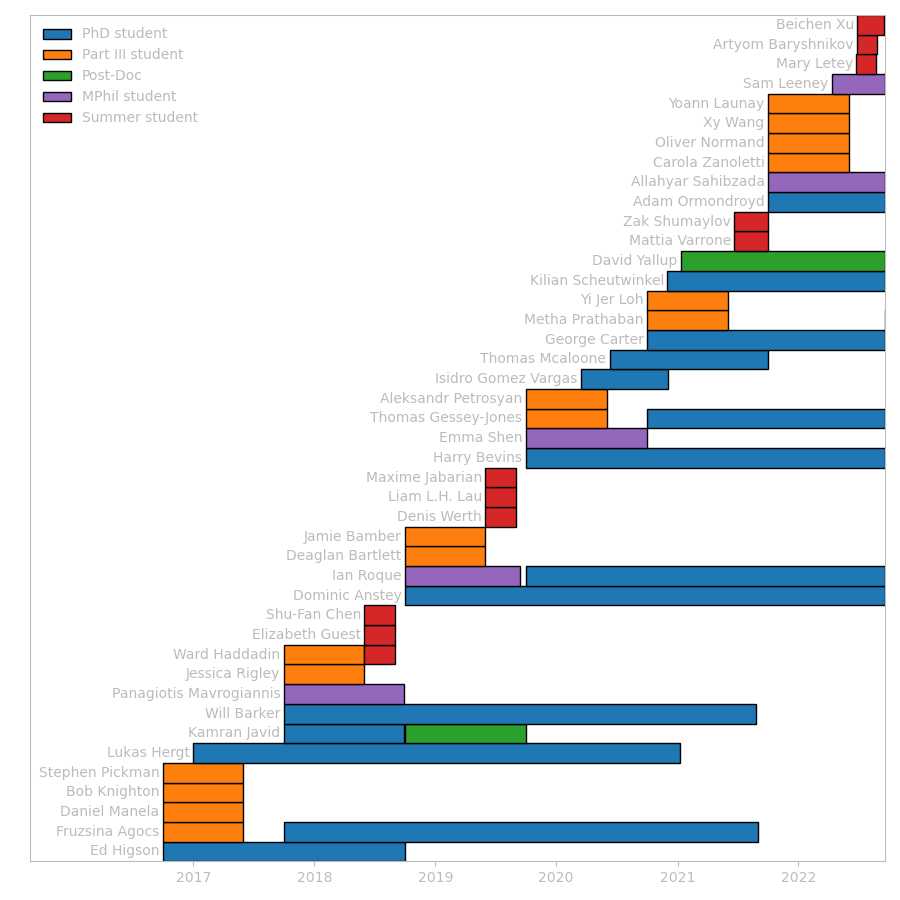
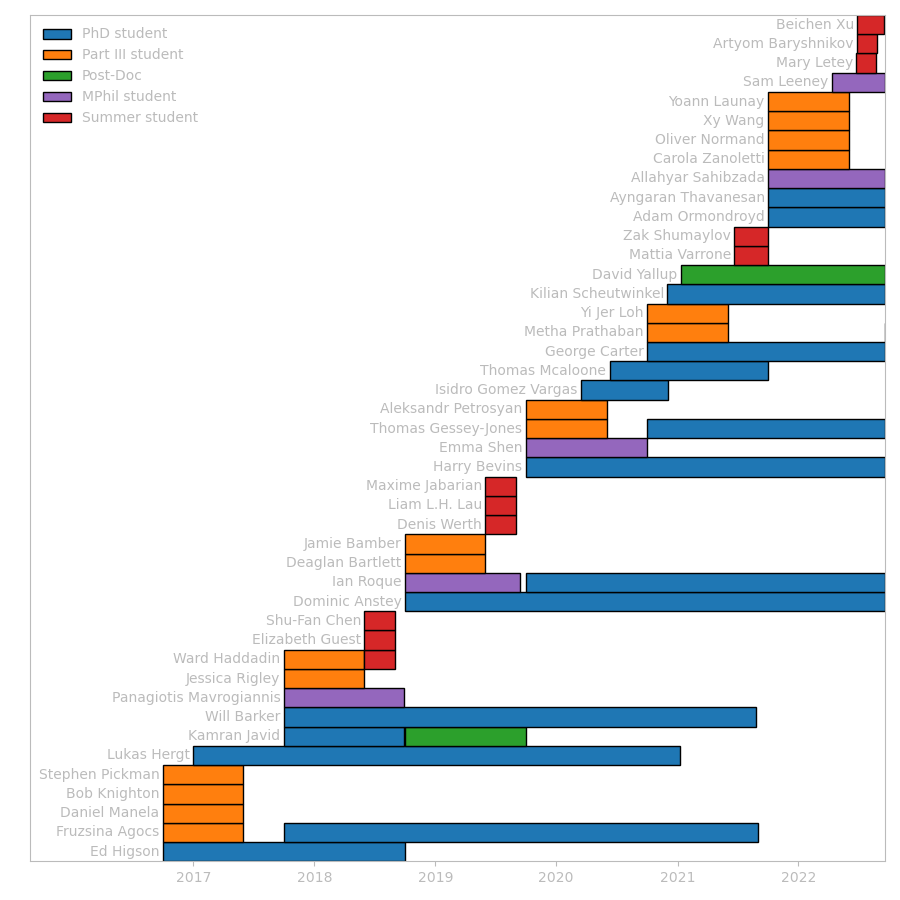
Added ayngaran

diff --git a/assets/students/students.html b/assets/students/students.html
@@ -104,6 +104,22 @@
       </p>
     </div>
     <div class="grid-item">
+      <img src="/assets/students/images/ayngaran_thavanesan.jpg" />
+    </div>
+    <div class="grid-item">
+      <p>
+        <font size="+2">Ayngaran Thavanesan</font>
+      </p>
+      <p>
+        <ul>
+          <li>PhD student from Oct 2021<ul><li>co-supervised with <a href="https://www.nottingham.ac.uk/physics/people/david.stefanyszyn">David Stefanyszyn</a></li></ul></li>
+          <li>
+            <a href="https://arxiv.org/search/?query=handley%2C+w%3B+Thavanesan%2CA&searchtype=author">Shared research papers (1)</a>
+          </li>
+        </ul>
+      </p>
+    </div>
+    <div class="grid-item">
       <img src="/assets/students/images/kilian_scheutwinkel.jpg" />
     </div>
     <div class="grid-item">

diff --git a/assets/students/students.py b/assets/students/students.py
@@ -21,6 +21,7 @@ supervisors = [
     Supervisor('Mark Ashdown', "https://www.phy.cam.ac.uk/staff/dr-mark-ashdown"),
     Supervisor('Keith Grainge', "https://www.research.manchester.ac.uk/portal/keith.grainge.html"),
     Supervisor('Malak Olamaie', "https://www.yorksj.ac.uk/our-staff/staff-profiles/malak-olamaie.php"),
+    Supervisor('David Stefanyszyn',"https://www.nottingham.ac.uk/physics/people/david.stefanyszyn")
 ]
 
 supervisors = {s.name:s for s in supervisors}
